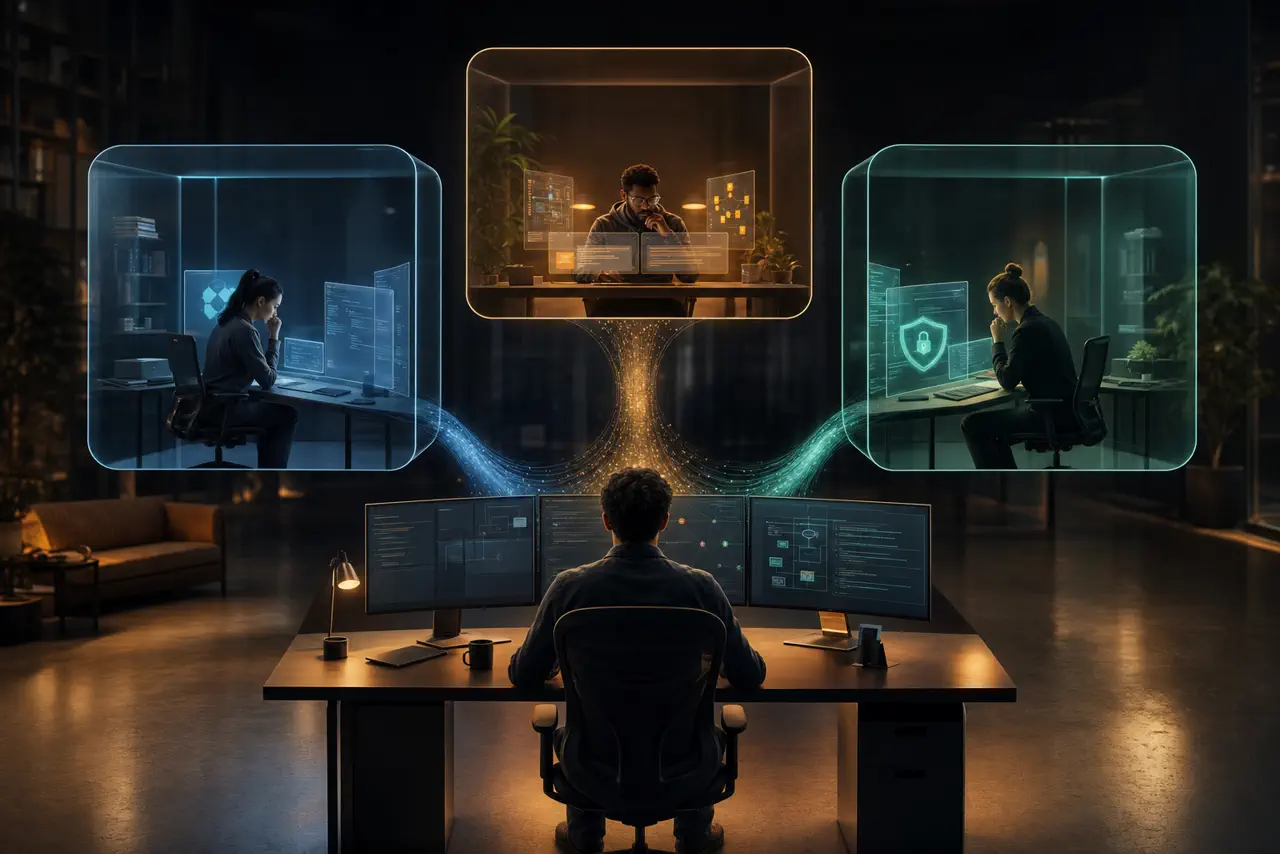
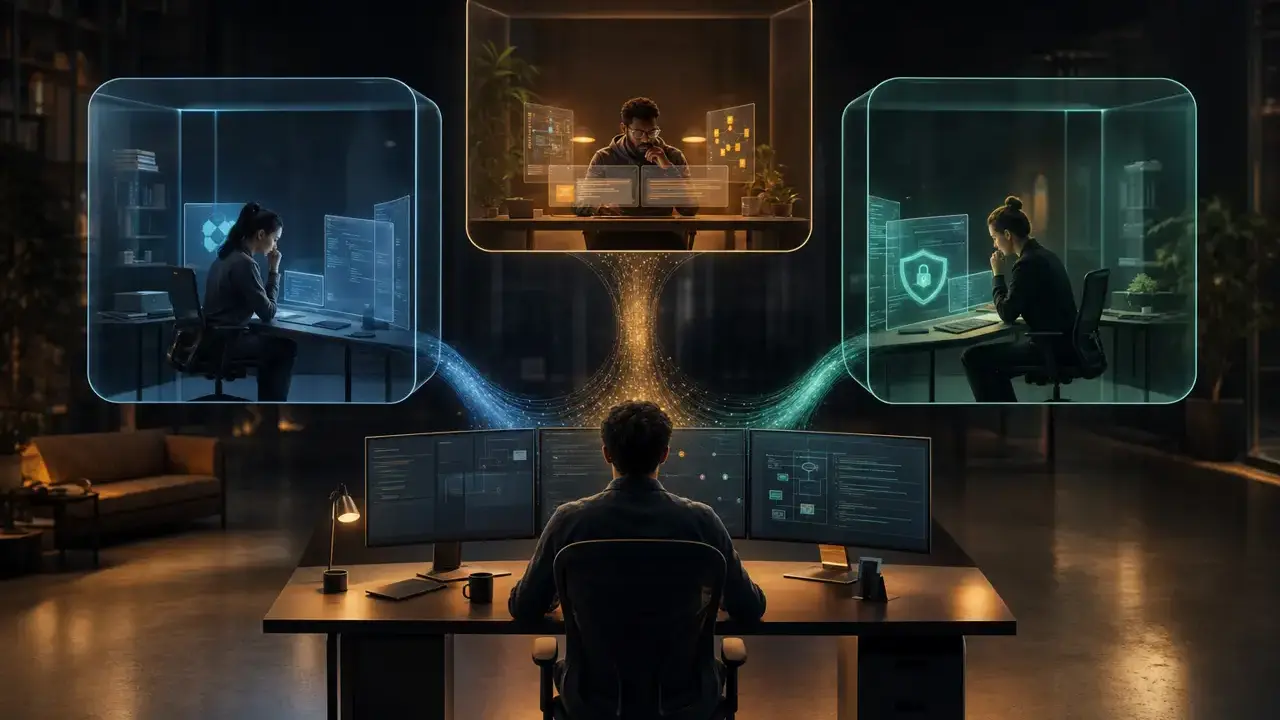
feat(articles): normalize Claude subagent visuals

diff --git a/articles/claude-code-subagents/PROVENANCE.md b/articles/claude-code-subagents/PROVENANCE.md
@@ -1,0 +1,8 @@
+# Claude Code subagents article visuals
+
+- Source: original GolemWorkers AI-generated raster artwork already present in this repository before the 2026-07-21 remediation.
+- Remediation: visually inspected, center-cropped, resized, and re-encoded as WebP without adding text, logos, or third-party trade dress.
+- Cover: `claude-code-subagents-cover.webp`, 1280x720.
+- Body image 1: `claude-code-subagents-context.webp`, 960x540.
+- Body image 2: `claude-code-subagents-review.webp`, 960x540.
+- The unused legacy `claude-code-subagents-config.webp` remains in the directory for historical traceability but is not embedded by the remediated article.
